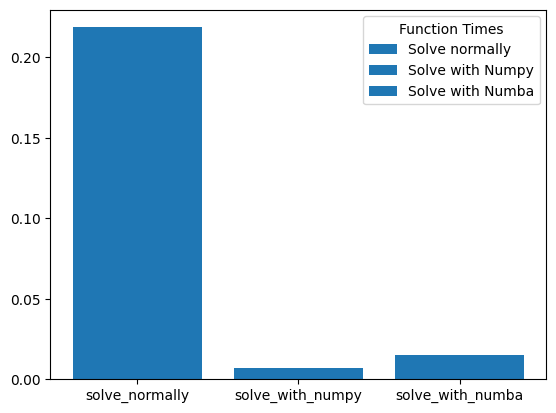
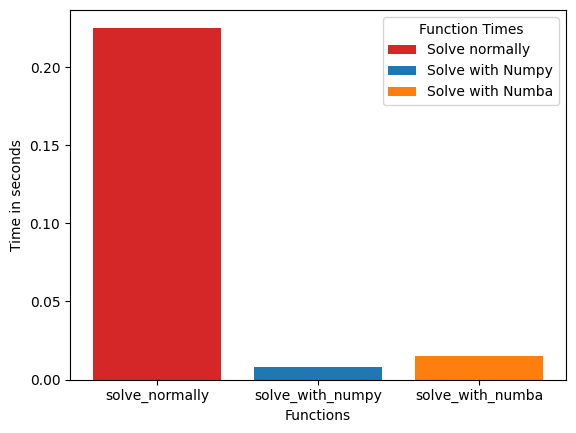
Add project euler results for 0001

diff --git a/project_euler/0001.py b/project_euler/0001.py
@@ -36,7 +36,10 @@ if __name__  == '__main__':
         times.append(abs(start - end))
 
     fix, ax = plt.subplots()
+    bar_colors = ['tab:red', 'tab:blue', 'tab:orange']
 
-    ax.bar(functions, times, label=["Solve normally", "Solve with Numpy", "Solve with Numba"])
+    ax.bar(functions, times, label=["Solve normally", "Solve with Numpy", "Solve with Numba"], color=bar_colors)
     ax.legend(title="Function Times")
+    plt.xlabel("Functions")
+    plt.ylabel("Time in seconds")
     plt.savefig('0001.py.png', bbox_inches='tight')
